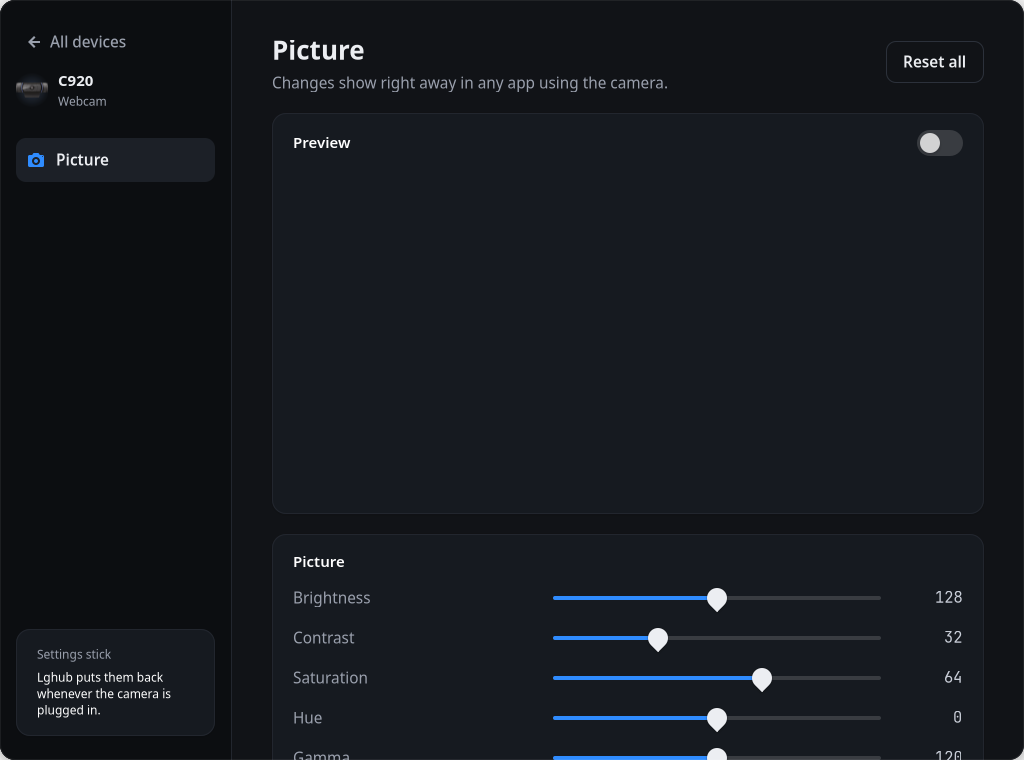
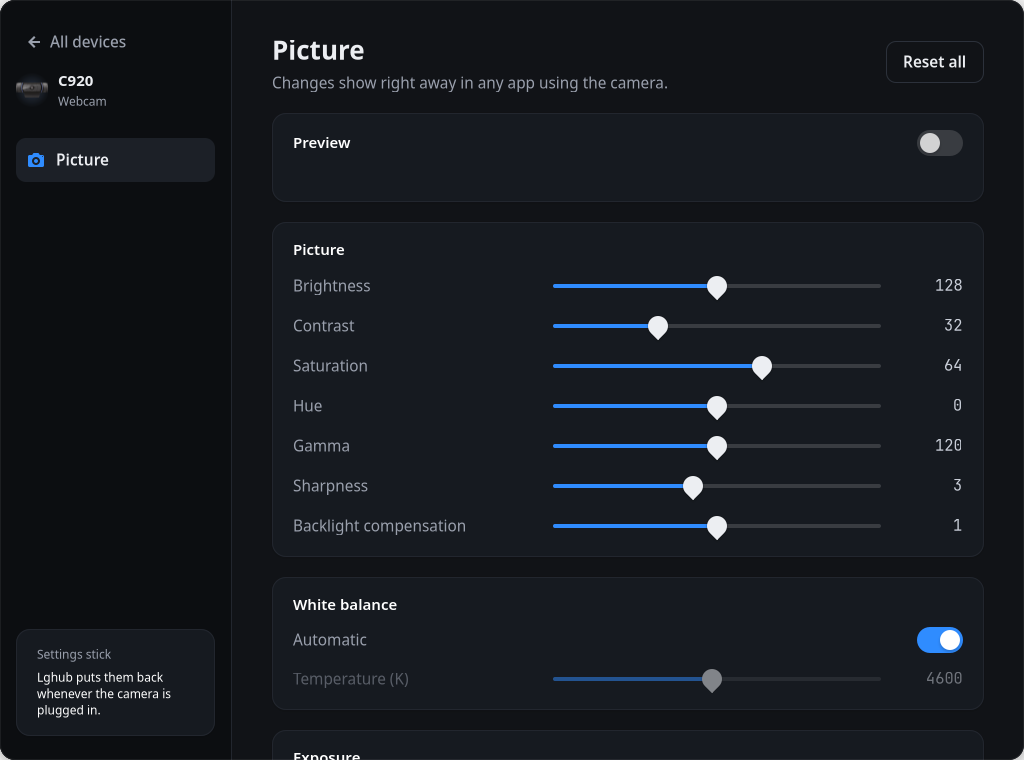
Webcam: collapse the preview area while the preview is off
Claude-Session: https://claude.ai/code/session_01Uuq91az84VSyAJU2QzJH6x

diff --git a/webcam_ui.py b/webcam_ui.py
@@ -82,9 +82,11 @@ class WebcamView(Gtk.Box):
 		self.preview_switch = Gtk.Switch(active=os.environ.get('LGHUB_PREVIEW') != '0', valign=Gtk.Align.CENTER)
 		self.preview_switch.connect('notify::active', lambda w, _p: self._start_preview() if w.get_active()
 		                            else self._stop_preview())
+		self.preview_switch.connect('notify::active', lambda w, _p: self.picture.set_visible(w.get_active()))
 		head.append(self.preview_switch)
 		c.append(head)
-		self.picture = Gtk.Picture(content_fit=Gtk.ContentFit.CONTAIN, height_request=PREVIEW_HEIGHT)
+		self.picture = Gtk.Picture(content_fit=Gtk.ContentFit.CONTAIN, height_request=PREVIEW_HEIGHT,
+		                           visible=self.preview_switch.get_active())
 		c.append(self.picture)
 		self.preview_note = label('', ['muted', 'small'], wrap=True)
 		c.append(self.preview_note)
